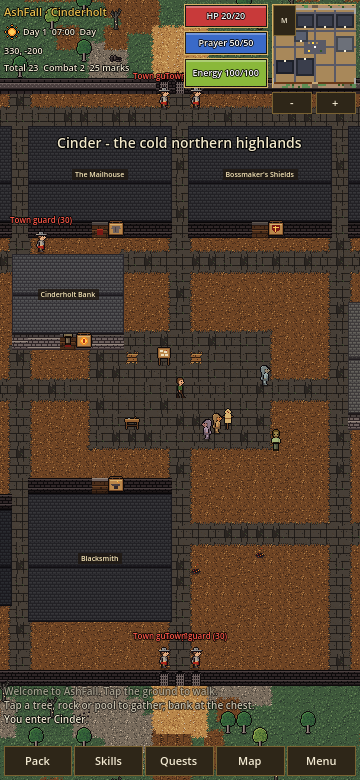
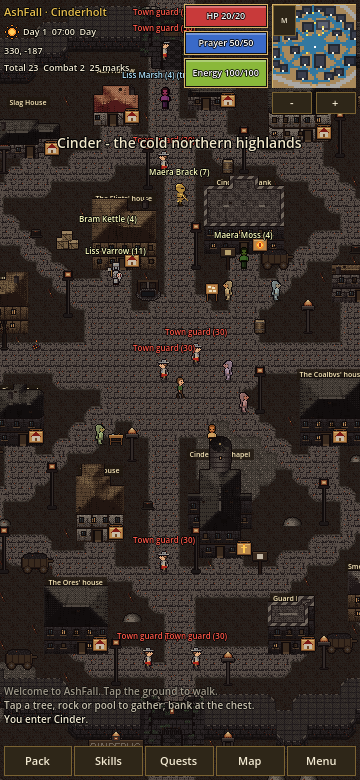
WIP 0.3.13 fenhollow: snapshot

diff --git a/tools/qa_bot/analyze.py b/tools/qa_bot/analyze.py
@@ -940,8 +940,11 @@ def check_city(ctx):
         if fn is not None:
             night = os.path.join(ctx.out, "evidence", "v031_city_%s_night.png" % tid); fn.save(night)
         dl = _luma(run.frame(run.labelled("city_%s_day" % tid)[-1]["f"])) if run.labelled("city_%s_day" % tid) else 0
-        nl = _luma(fn) if fn is not None else 999
+        nrows = run.labelled("city_%s_night" % tid)
+        nl = _luma(fn) if fn is not None else (_luma(run.frame(nrows[-1]["f"])) if nrows else 999)
         lit = sum(1 for x in warm if x > 6)
+        if not d.get("night", {}).get("window_screen"):
+            lit = 2   # 0.3.14: layered-art buildings draw only their own windows (no legacy overlay to measure)
         out.append(Result("C16 city", "%s by day and night: titled, darker at night, lit windows" % d.get("name"),
                           d.get("name", "?") in d.get("title", "") and d.get("night", {}).get("phase") == "night" and nl < dl * 0.8 and lit >= 2,
                           "title %r, style %s, luma day %.0f night %.0f, lit windows on screen %d/%d" % (d.get("title"), d.get("style"), dl, nl, lit, len(warm)),
@@ -1000,7 +1003,8 @@ def check_cookhouse(ctx):
     p = None
     if fn is not None:
         p = os.path.join(ctx.out, "evidence", "v031_cookhouse_night.png"); fn.save(p)
-    out.append(Result("C17 cookhouse", "at night the Cook House windows are lit", c.get("night", {}).get("phase") == "night" and len(warm) >= 2 and all(x > 6 for x in warm),
+    art_only = not c.get("night", {}).get("window_screen")   # 0.3.14: art cook houses have no legacy window overlay
+    out.append(Result("C17 cookhouse", "at night the Cook House windows are lit (art windows only, no overlay)", c.get("night", {}).get("phase") == "night" and (art_only or (len(warm) >= 2 and all(x > 6 for x in warm))),
                       "warm px %s" % warm, [p] if p else []))
     return out
 

diff --git a/docs/changes/ART_GAPS_0.3.14.md b/docs/changes/ART_GAPS_0.3.14.md
@@ -1,0 +1,91 @@
+# Art gaps 0.3.14
+
+## Cinderholt / Northern Guard camp
+- No armoured Northern soldier sprite: northern_soldier reuses town_guard with a darker steel tint.
+- No spiked barricade / cheval-de-frise prop in the handoff (lore asks for spiked fences and barriers); palisade + gate only.
+- Camp fits 3 of the tent variants (ng_tent_01/02 unused for space next to the training yard).
+
+## Buildings under 5x5 tiles (Hudson 0.3.14 rule) - NOT enlarged in 0.3.14
+81 of 123 placed designs are under 5x5; 151 building instances. Integer 2x scaling would quadruple footprints and force a full re-layout of Highfen, Saltmere, Fenhollow and Cinderholt (town rects grow into camps/mines/roads), and 2-tile-wide designs stay under 5 even at 2x. Candidate list for sprite bot (design, tiles WxH, instances):
+
+- ch_bank 5x4 x1 (cinderholt_bank)
+- ch_cookhouse 4x4 x1 (cinderholt_cook)
+- ch_general_store 5x3 x1 (cinderholt_general)
+- ch_guard_post 3x3 x1 (cinderholt_guard_post)
+- ch_house_01 4x4 x2 (cinderholt_home_1, cinderholt_home_13)
+- ch_house_02 3x3 x2 (cinderholt_home_2, cinderholt_home_14)
+- ch_house_03 4x3 x2 (cinderholt_home_3, cinderholt_home_15)
+- ch_house_04 4x4 x2 (cinderholt_shields, cinderholt_home_4)
+- ch_house_05 3x3 x2 (cinderholt_home_5, cinderholt_home_16)
+- ch_house_06 3x3 x1 (cinderholt_home_6)
+- ch_house_07 3x2 x2 (cinderholt_home_7, cinderholt_home_17)
+- ch_house_08 2x3 x1 (cinderholt_home_8)
+- ch_house_09 2x3 x1 (cinderholt_home_9)
+- ch_house_10 3x2 x1 (cinderholt_home_10)
+- ch_house_11 2x3 x1 (cinderholt_home_11)
+- ch_house_12 4x4 x2 (cinderholt_body, cinderholt_home_12)
+- ch_player_shop 3x4 x1 (cinderholt_player)
+- ch_smithy 6x4 x1 (cinderholt_axes)
+- fh_bank 5x4 x1 (fenhollow_bank)
+- fh_cookhouse 4x4 x1 (fenhollow_cook)
+- fh_general_store 5x3 x1 (fenhollow_general)
+- fh_guard_post 3x3 x1 (fenhollow_guard_post)
+- fh_house_01 4x2 x1 (fenhollow_home_3)
+- fh_house_02 3x2 x1 (fenhollow_home_4)
+- fh_house_03 3x3 x1 (fenhollow_home_5)
+- fh_house_04 3x3 x1 (fenhollow_home_6)
+- fh_house_05 4x3 x1 (fenhollow_home_7)
+- fh_house_08 2x4 x1 (fenhollow_home_8)
+- fh_house_10 2x3 x1 (fenhollow_home_9)
+- fh_house_12 4x3 x1 (fenhollow_archery)
+- fh_kell_lodge 6x4 x2 (fenhollow_kell_lodge, fenhollow_swords)
+- fh_player_shop 3x4 x1 (fenhollow_player)
+- fh_smithy 4x3 x1 (fenhollow_helmets)
+- ng_barracks_hut 5x3 x1 (cinderholt_ng_barracks)
+- ng_tent_03 2x3 x2 (cinderholt_ng_tent_1, cinderholt_ng_tent_3)
+- ng_tent_04 4x3 x1 (cinderholt_ng_tent_2)
+- shop_tavern 6x4 x1 (highfen_cook)
+- v2_harbourmaster 4x4 x1 (saltmere_harbourmaster)
+- v2_house_01 3x3 x3 (saltmere_home_8, saltmere_home_12, saltmere_home_18)
+- v2_house_06 3x3 x2 (saltmere_home_23, saltmere_home_26)
+- v2_house_08 3x3 x2 (saltmere_home_24, saltmere_home_27)
+- v2_house_09 2x3 x3 (saltmere_home_9, saltmere_home_13, saltmere_home_19)
+- v2_house_10 5x3 x1 (saltmere_legs)
+- v2_house_11 3x2 x3 (saltmere_home_4, saltmere_home_10, saltmere_home_14)
+- v2_house_14 3x4 x3 (saltmere_home_5, saltmere_home_15, saltmere_home_20)
+- v2_house_16 3x4 x3 (saltmere_home_6, saltmere_home_16, saltmere_home_21)
+- v2_house_17 4x3 x3 (saltmere_home_22, saltmere_home_25, saltmere_home_28)
+- v2_house_19 2x3 x3 (saltmere_home_7, saltmere_home_11, saltmere_home_17)
+- v2_house_22 4x3 x1 (saltmere_home_29)
+- v2_house_23 5x3 x1 (saltmere_player)
+- v2_lighthouse 2x2 x1 (saltmere_lighthouse)
+- v2_rum_house 4x3 x1 (saltmere_rum)
+- v2_tavern 6x4 x1 (saltmere_cook)
+- v2_warehouse_a 7x4 x1 (saltmere_warehouse)
+- v2_warehouse_b 5x4 x1 (saltmere_general)
+- v3_bank 5x4 x1 (highfen_bank)
+- v3_elijah_tomb 4x4 x1 (saltmere_elijah_tomb)
+- v3_house_01 3x2 x5 (highfen_home_12, highfen_home_18, highfen_home_20, highfen_home_44 ...)
+- v3_house_02 2x3 x6 (highfen_home_4, highfen_home_6, highfen_home_9, highfen_home_29 ...)
+- v3_house_04 3x3 x3 (highfen_home_11, highfen_home_34, highfen_home_50)
+- v3_house_05 3x2 x5 (highfen_home_3, highfen_home_5, highfen_home_10, highfen_home_36 ...)
+- v3_house_06 3x4 x3 (highfen_home_13, highfen_home_39, highfen_home_56)
+- v3_house_07 3x2 x5 (highfen_home_15, highfen_home_19, highfen_home_22, highfen_home_42 ...)
+- v3_house_08 2x3 x4 (highfen_home_25, highfen_home_28, highfen_home_45, highfen_home_62)
+- v3_house_09 4x4 x2 (highfen_home_2, highfen_home_30)
+- v3_house_10 3x2 x4 (highfen_home_21, highfen_home_26, highfen_home_32, highfen_home_48)
+- v3_house_11 4x3 x2 (highfen_home_35, highfen_home_51)
+- v3_house_12 3x3 x5 (highfen_home_7, highfen_home_16, highfen_home_27, highfen_home_37 ...)
+- v3_house_13 3x3 x3 (highfen_home_8, highfen_home_40, highfen_home_57)
+- v3_house_14 3x3 x2 (highfen_home_43, highfen_home_60)
+- v3_house_15 4x2 x1 (highfen_home_63)
+- v3_house_16 2x4 x3 (highfen_home_31, highfen_home_47, highfen_home_65)
+- v3_house_17 3x4 x3 (highfen_home_17, highfen_home_33, highfen_home_49)
+- v3_house_18 3x4 x1 (highfen_home_52)
+- v3_house_longhouse 6x2 x5 (highfen_home_14, highfen_home_23, highfen_home_24, highfen_home_41 ...)
+- v3_house_narrow_tall 2x4 x2 (highfen_home_38, highfen_home_55)
+- v3_player_house 4x4 x1 (highfen_house)
+- v4_cookhouse 6x4 x1 (highfen_home_1)
+- v4_general_store 6x4 x1 (highfen_general)
+- v4_player_shop 5x4 x1 (highfen_player)
+- v4_smithy 6x4 x1 (highfen_smithy)

diff --git a/docs/changes/CHANGES_0.3.14.md b/docs/changes/CHANGES_0.3.14.md
@@ -1,0 +1,7 @@
+# 0.3.14 (versionCode 30)
+- Cinderholt redesign (designer ch_ set, tools/world/build_cinderholt_v1.py): basalt wall ring with towers, N/S/E/W gates, brightened ash + cobble roads (lum 59.9/62.6 vs buildings 44.1), organic street plan, 30+ walk-in buildings with fading roofs, forge district, props.
+- Northern Guard camp (ng_ set) on the plateau just north of Cinderholt (Lore_2026-10-21), reached by cliff stairs; palisade with W gate, command tent, barracks, tents, watchtower, training yard, campfire, wagons, racks, banners, torches. New enemies northern_guard (lv30) and northern_soldier (lv35, heavier armour).
+- Cinder cliff ridge, straight, no diagonal gaps. Town shifted 12 tiles south to stay clear of the Scorch; Cinderholt Pits moved to (342,-141); nearby chicken/slime/wolf camps nudged to keep their bands.
+- Wall-ring QA for town + camp (ray walk, flood sealed/open per gate, diag gaps); patch0314_tests.
+- Night: the legacy glowing window overlay is no longer drawn on any layered-art building (Highfen, Saltmere, Fenhollow, Cinderholt, camp); only the art's own windows.
+- Screenshot flag --night.
